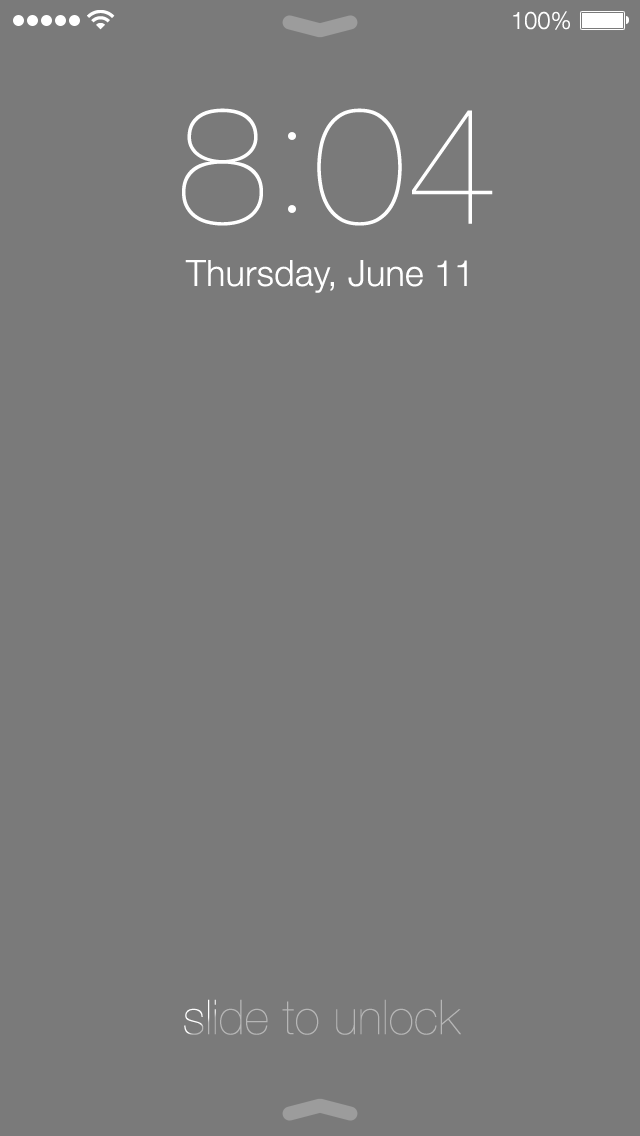
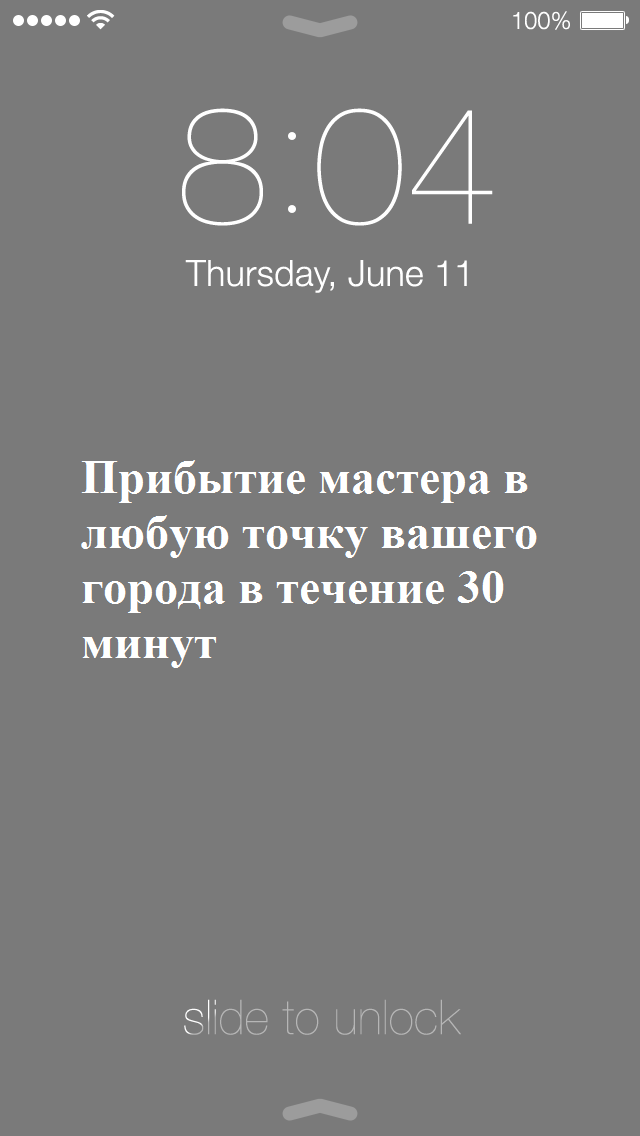
com

Changed region(s): [[0.125, 0.4005, 0.8438, 0.5854]]

diff --git a/index.html b/index.html
@@ -1,7 +1,7 @@
 <!DOCTYPE html>
 <html>
   <head>
-    <title>Landy - Parallax App Landing Page</title>
+    <title>Re-Fix</title>
     <meta charset="utf-8" />
     <meta content="width=device-width, initial-scale=1, maximum-scale=1, user-scalable=no" name="viewport">
     <!-- CSS 
@@ -18,7 +18,7 @@
 	  
 	  <!-- NAVBAR
 	      ================================================== -->
-	  <nav class="navbar navbar-default" role="navigation">
+	 <!-- <nav class="navbar navbar-default" role="navigation">
 	  	  <div class="container">
 			  <div class="navbar-header">
 			    <button type="button" class="navbar-toggle" data-toggle="collapse" data-target=".navbar-ex1-collapse">
@@ -27,9 +27,9 @@
 			      <span class="icon-bar"></span>
 			      <span class="icon-bar"></span>
 			    </button>
-			    
+			-->    
 			    <!--Replace text with your app name or logo image-->
-			    <a class="navbar-brand" href="#">Landy</a>
+			   <!-- <a class="navbar-brand" href="#">Landy</a>
 			    
 			  </div>
 			  <div class="collapse navbar-collapse navbar-ex1-collapse">
@@ -38,11 +38,12 @@
 			      <li><a onclick="$('.detail').animatescroll({padding:71});">Screens</a></li>
 			      <li><a onclick="$('.features').animatescroll({padding:71});">Features</a></li>
 			      <li><a onclick="$('.social').animatescroll({padding:71});">Social	</a></li>
+			      
 			    </ul>
 			  </div>
 		  </div>
 	  </nav>
-	  
+	  -->
 	  
 	   <!-- HEADER
 	   ================================================== -->	  
@@ -50,8 +51,12 @@
 		 <div class="container">
 			 <div class="row">
 				 <div class="col-md-12">
-					  <h1>Сайт Дамира!</h1>
-					  <p class="lead">Починка айфона</p>
+				 	<div style="padding: 0px 0px 0px 78%; height: 10%; margin: 0px">
+				      <img src="img/vk.png" width="48" height="48"></img>
+				      <img src="img/instagram2.png" width="36" height="36"></img>
+				      <b><p class="lead"> 8-937-333-01-19</p></b>
+					  </div>
+					  <p class="lead" style="padding: 10% 0px 0px 0px">Выездной ремонт вашего iPhone и iPad</p>
 					  
 					  <div class="carousel-iphone">
 					  	<div id="carousel-example-generic" class="carousel slide">
@@ -90,9 +95,8 @@
 		  <div class="container">
 			  <div class="row">
 				  <div class="col-md-offset-2 col-md-8">
-					 <h1>Everything's easily customizable.</h1>
-					 	    <p class="lead">Lorem ipsum dolor sit amet, consectetur adipisicing elit</p>
-					 	    <button type="button" class="app-store"></button>	
+					 <h1>На каждый отремонтированый гаджет клеим защитную пленку в подарок.</h1>
+					 	    <p class="lead">При заказе от 3-х услуг скидка 10%</p>
 				  </div>
 			  </div>
 		  </div>
@@ -130,7 +134,7 @@
 					      		</div>
 					      		<div class="col-sm-12 col-md-5">
 					      			<div class="app-screenshot">
-					      				<img src="img/screenshots/app-1.png" class="img-responsive" alt="App Screen 1">
+					      				<img src="img/app-1.png" class="img-responsive" alt="App Screen 1">
 					      			</div>
 					      		</div>
 					      	</div>
@@ -143,7 +147,7 @@
 					    		</div>
 					    		<div class="col-sm-12 col-md-5">
 					    			<div class="app-screenshot">
-					    				<img src="img/screenshots/app-2.png" class="img-responsive" alt="App Screen 2">
+					    				<img src="img/app-2.png" class="img-responsive" alt="App Screen 2">
 					    			</div>
 					    		</div>
 					    	</div>
@@ -156,7 +160,7 @@
 					      	</div>
 					      	<div class="col-sm-12 col-md-5">
 					      		<div class="app-screenshot">
-					      			<img src="img/screenshots/app-3.png" class="img-responsive" alt="App Screen 3">
+					      			<img src="img/app-3.png" class="img-responsive" alt="App Screen 3">
 					      		</div>
 					      	</div>
 					      </div>
@@ -180,24 +184,22 @@
 	      ================================================== -->
 	  <section class="features">
 		  <div class="container">
+		  	<div class="col-md-12" style="padding: 0px 0% 5% 0px"><h2> Горячие предложения </h2></div>
 			  <div class="row">
 				
 				  <div class="col-md-4">
 					  <div class="circle"><i class="icon-bookmark"></i></div>
-					  <h2>Quick &amp; Easy Setup</h2>
-					  <p>Lorem ipsum dolor sit amet, consectetur adipisicing elit, sed do eiusmod tempor incididunt ut labore et dolore magna.</p>
+					  <h2>Профессиональное оборудование</h2>
 				  </div>
 				
 				  <div class="col-md-4">
 					  <div class="circle"><i class="icon-keypad"></i></div>
-					  <h2>Parallax Scrolling</h2>
-					  <p>Lorem ipsum dolor sit amet, consectetur adipisicing elit, sed do eiusmod tempor incididunt ut labore et dolore magna.</p>
+					  <h2>Используем только новые запчасти</h2>
 				  </div>
 				 
 				  <div class="col-md-4">
 					  <div class="circle"><i class="icon-like"></i></div>
-					  <h2>Responsive Design</h2>
-					  <p>Lorem ipsum dolor sit amet, consectetur adipisicing elit, sed do eiusmod tempor incididunt ut labore et dolore magna.</p>
+					  <h2>Гарантия на запчасть от 1 месяца</h2>
 				  </div>
 				  
 			  </div>

diff --git a/css/style.css b/css/style.css
@@ -150,7 +150,7 @@ nav.navbar.fixed-to-top{
 /*-----------------------------------------------------------------------------------*/
 
 header{
-	padding: 150px 0px 0px 0px;
+	padding: 10px 0px 0px 0px;
 	height: 960px;
 	background: url('../img/nepal.jpg');
 	background-color: white!important;
@@ -343,7 +343,7 @@ header .carousel-indicators li {
 
 .features{
 	overflow: hidden;
-	padding: 150px 0px 150px 0px;
+	padding: 40px 0px 150px 0px;
 	min-height: 400px;
 	color: black;
 }
